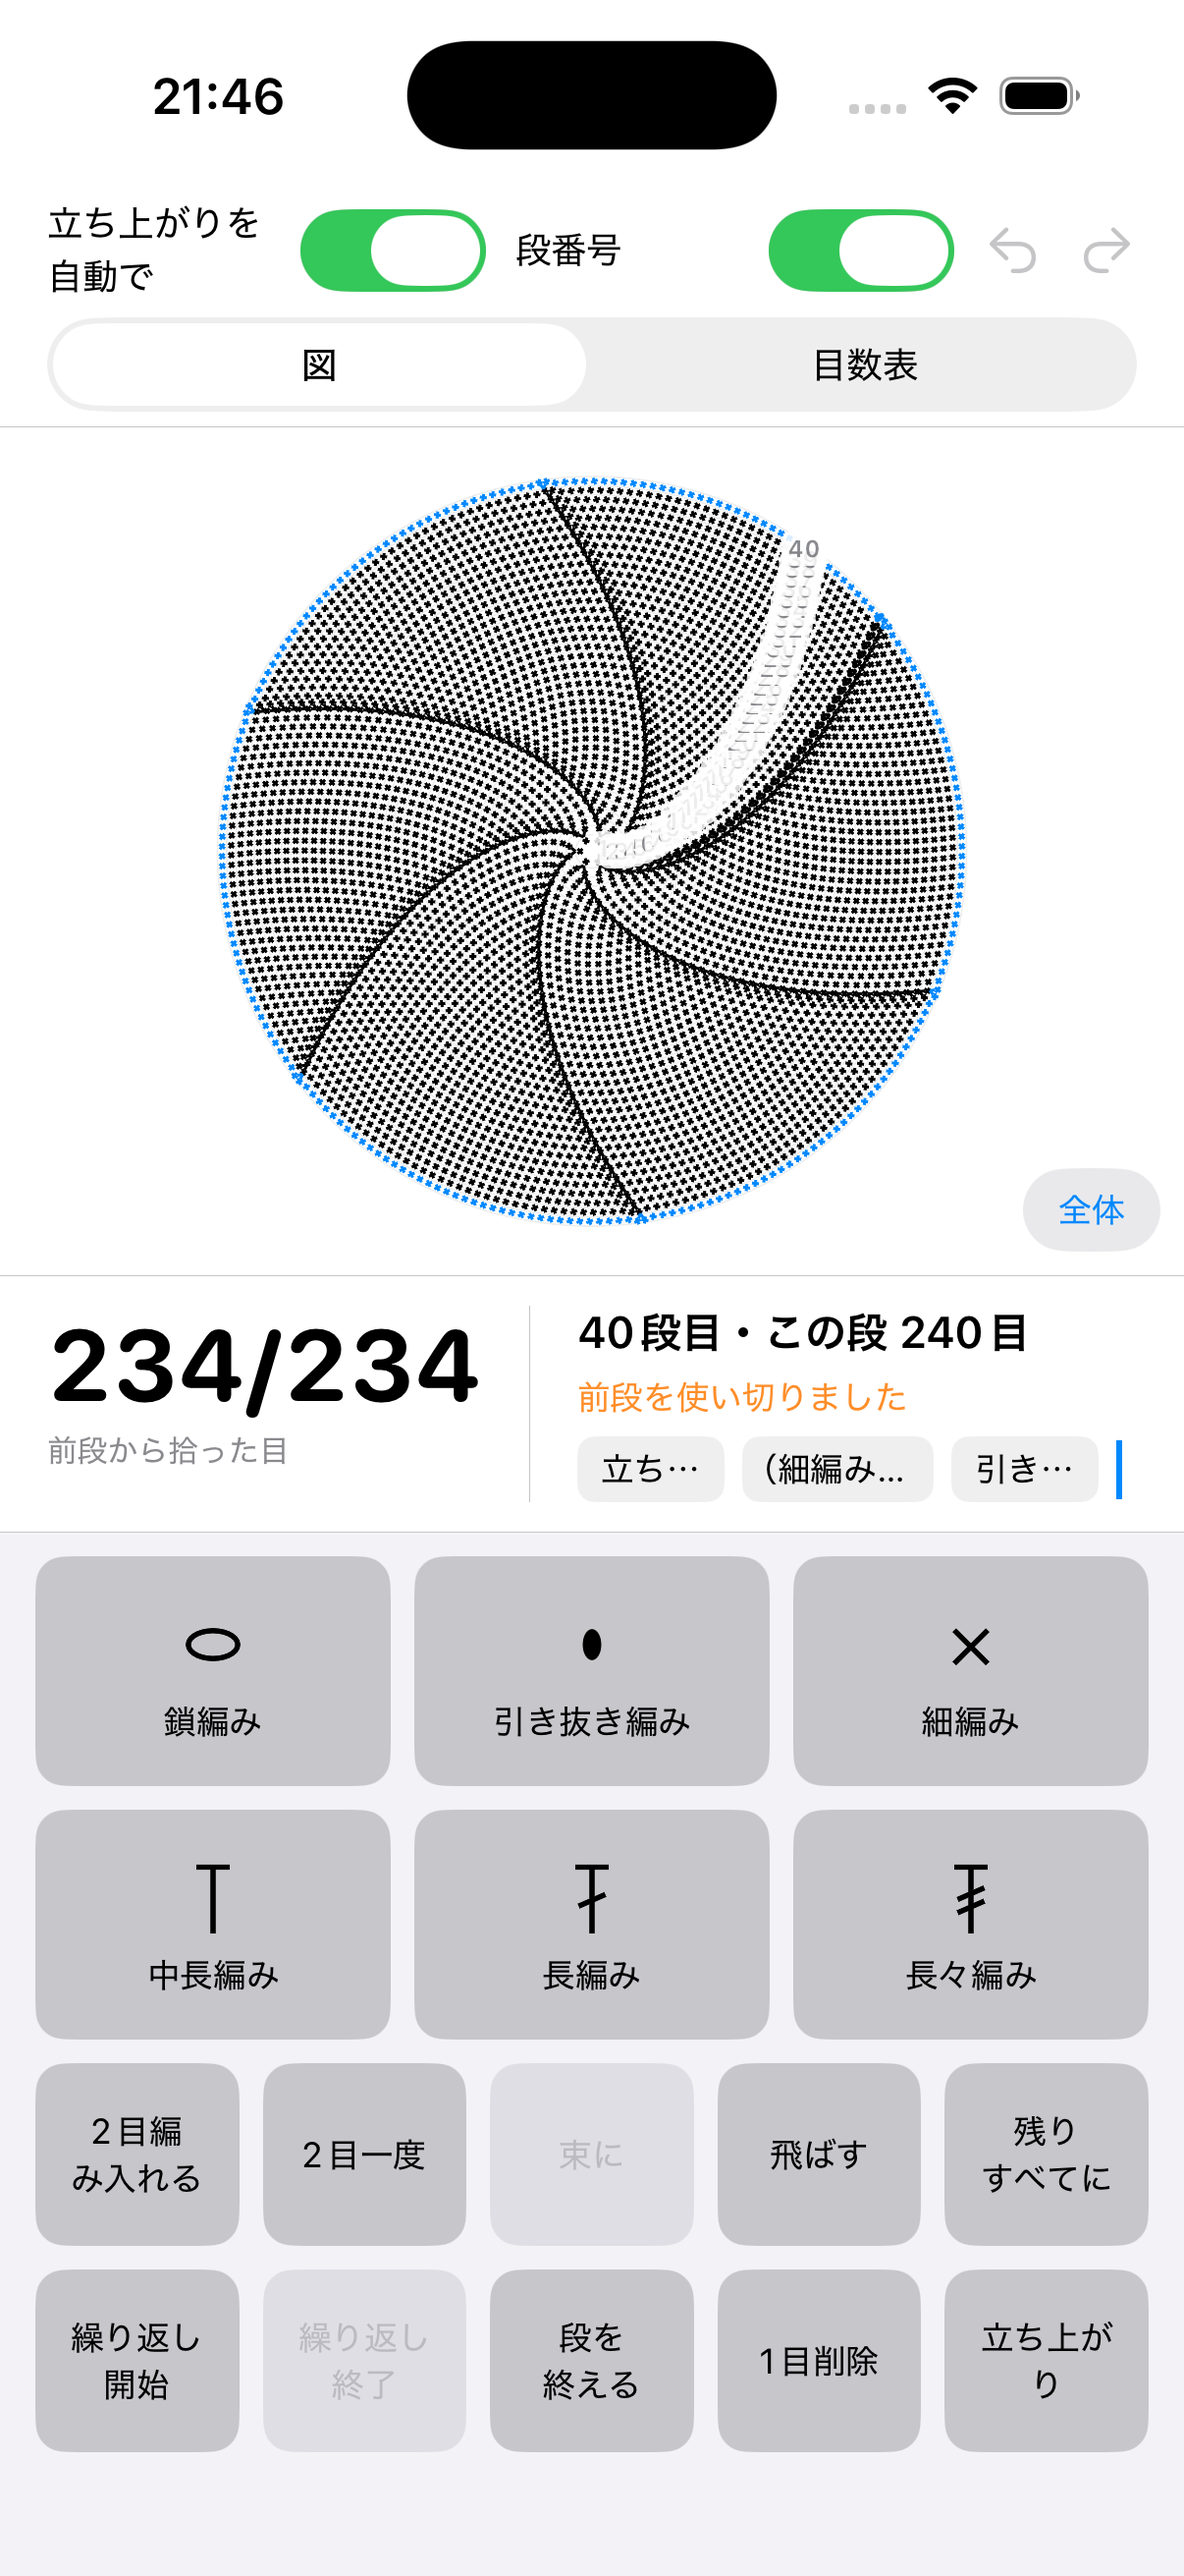
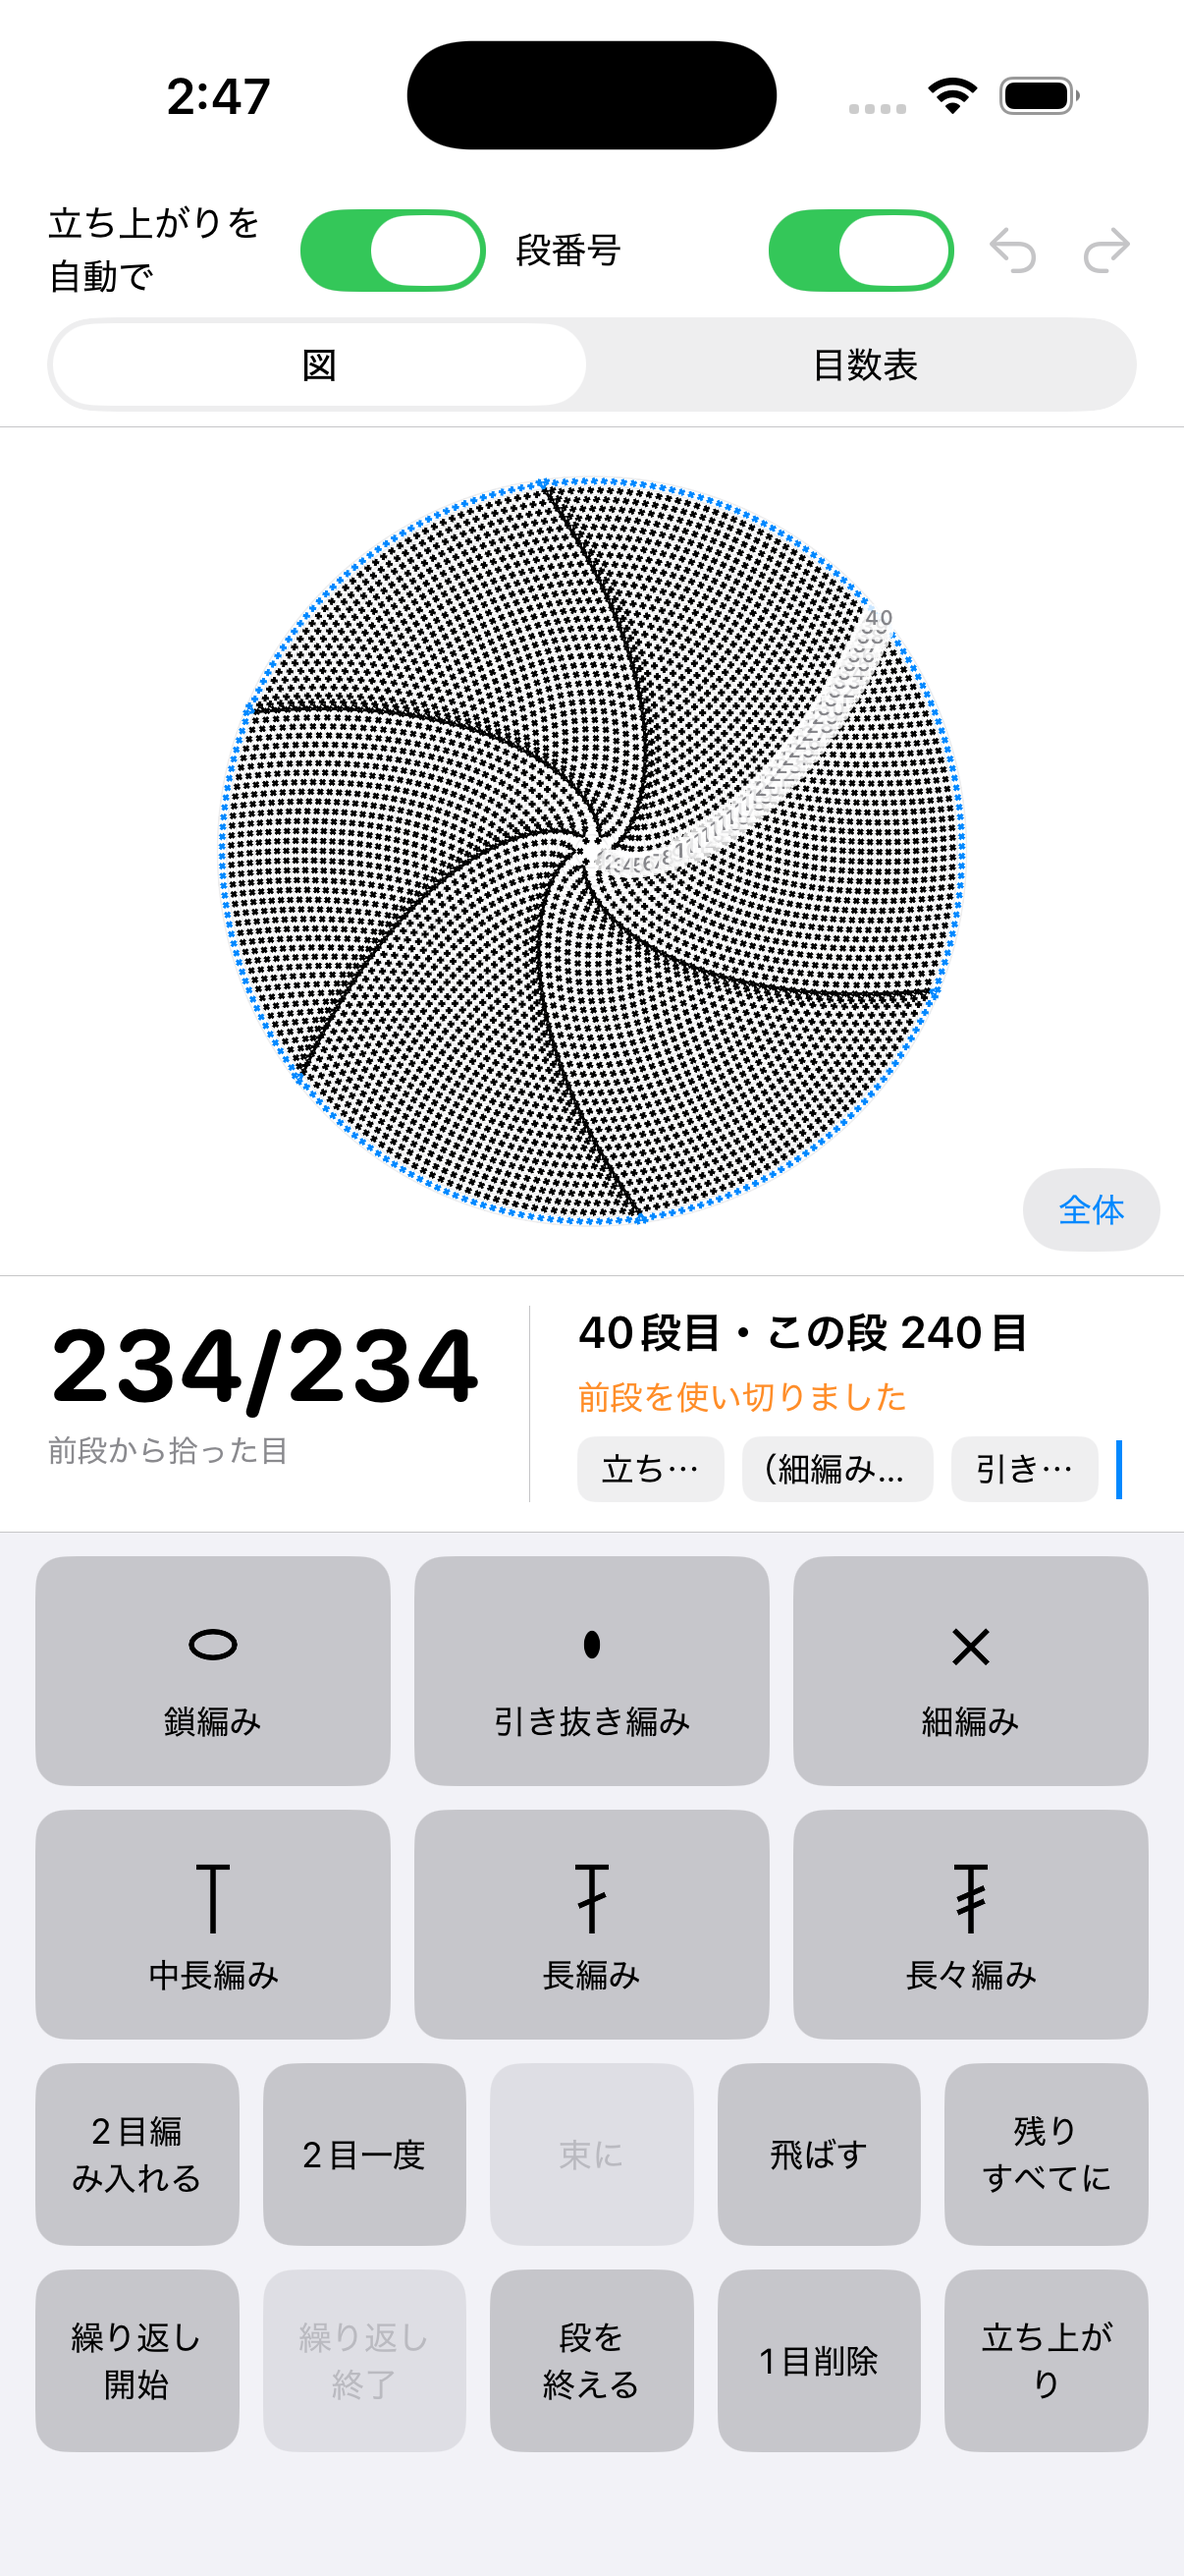
AMIZ-17 図の見た目の調整（立ち上がりと細編みの重なり、段番号の位置）
開発者の指摘「立ち上がりと細編みの記号が被っている」への対応（plan.md フェーズ3-4）。

- CircularLayout：段の始まりの空き（seamAngle）を RowRing に持たせ、数えない立ち上がりは根元寄りの短い楕円、段を閉じる引き抜きは頭の少し内側の点に置く（同じ角度でも高さで分ける）
- ChartView：段番号を段の始まりの空き（楕円と点の間の高さ）に移動。目の上に被らない
- StitchSymbol：鎖の楕円と引き抜きの点を少し小さく
- テスト更新（合計77件）。tech-spec 8-1、スクリーンショットを更新

Changed region(s): [[0.4909, 0.2162, 0.767, 0.3398], [0.1227, 0.0309, 0.2454, 0.0618], [0.1534, 0.6178, 0.1841, 0.6487]]

diff --git a/CrochetCore/Sources/CrochetCore/Layout/CircularLayout.swift b/CrochetCore/Sources/CrochetCore/Layout/CircularLayout.swift
@@ -20,6 +20,10 @@ public enum CircularLayout {
         public var minRowHeight = 1.0
         /// 高さのない目（鎖・引き抜き）を描くときの長さ
         public var lowStitchHeight = 0.5
+        /// 数えない立ち上がり（鎖1目）を描く長さ（根元から。段の高さより短くして隣の目と触れないようにする）
+        public var uncountedTurningChainHeight = 0.5
+        /// 段を閉じる引き抜きを頭からどれだけ内側に置くか（次の段の立ち上がりと離すため）
+        public var closingSlipInset = 0.12
         /// 外接矩形の余白
         public var margin = 1.5
 
@@ -64,6 +68,10 @@ public enum CircularLayout {
                 countedIndexByStitchIndex[item.offset] = countedIndex
             }
 
+            // 段の始まりの空き：最初の目の半歩手前（等間隔ならこの段の1目分、入力中なら前段の1目分の半分）
+            let ownStep = headAngles.count > 1 ? headAngles[1] - headAngles[0] : previousStep
+            let seamAngle = (headAngles.first ?? previousHeadAngles.first ?? 0) - ownStep / 2
+
             for (stitchIndex, stitch) in row.stitches.enumerated() {
                 let laidOut: LaidOutStitch
                 if let countedIndex = countedIndexByStitchIndex[stitchIndex] {
@@ -82,19 +90,25 @@ public enum CircularLayout {
                         center: center, options: options
                     )
                 } else {
-                    // 数えない目：立ち上がり（鎖1目）は段の始めの半歩手前、段を閉じる引き抜きは終わりの半歩後ろ
+                    // 数えない目は段の始まりの空き（seam）に置く。同じ角度でも高さで分ける：
+                    // 立ち上がり（鎖1目）は根元寄りの小さな楕円、段を閉じる引き抜きは頭の近くの点
+                    // （×は中ほどが幅広く根元と頭の近くは細いので、隣の目と触れない）
                     let angle: Double
+                    let radius: Double
                     switch stitch.role {
                     case .turningChain:
-                        angle = (headAngles.first ?? previousHeadAngles.first ?? 0) - previousStep / 2
+                        angle = seamAngle
+                        radius = innerRadius + options.uncountedTurningChainHeight
                     case .closingSlipStitch:
-                        angle = (headAngles.last ?? previousHeadAngles.first ?? 0) + previousStep / 2
+                        angle = seamAngle
+                        radius = outerRadius - options.closingSlipInset
                     case .regular:
                         angle = headAngles.last ?? previousHeadAngles.first ?? 0
+                        radius = outerRadius
                     }
                     laidOut = make(
                         stitch, rowIndex: rowIndex, countedIndex: nil,
-                        headAngle: angle, outerRadius: outerRadius,
+                        headAngle: angle, outerRadius: radius,
                         bases: stitch.role == .closingSlipStitch ? [] : [point(center: center, radius: innerRadius, angle: angle)],
                         center: center, options: options
                     )
@@ -104,7 +118,7 @@ public enum CircularLayout {
 
             rings.append(RowRing(
                 rowIndex: rowIndex, innerRadius: innerRadius, outerRadius: outerRadius,
-                startAngle: headAngles.first ?? previousHeadAngles.first ?? 0
+                startAngle: headAngles.first ?? previousHeadAngles.first ?? 0, seamAngle: seamAngle
             ))
             previousHeadAngles = headAngles
             innerRadius = outerRadius

diff --git a/Amiz/Chart/ChartView.swift b/Amiz/Chart/ChartView.swift
@@ -66,17 +66,17 @@ struct ChartView: View {
             }
         }
 
-        // 段番号（段の始まりの少し手前に置く）
+        // 段番号：段の始まりの空き（立ち上がりの楕円と引き抜きの点の間の高さ）に置く
         if showsRowNumbers {
             for ring in layout.rings {
-                let angle = ring.startAngle + Double.pi / 12
-                let radius = (ring.innerRadius + ring.outerRadius) / 2
+                let angle = ring.seamAngle
+                let radius = ring.innerRadius + 0.62 + max(0, (ring.outerRadius - ring.innerRadius - 1)) / 2
                 let point = transform.toScreen(CGPoint(x: radius * cos(angle), y: -radius * sin(angle)))
-                let text = Text("\(ring.rowIndex + 1)").font(.system(size: max(8, transform.unit * 0.55), weight: .semibold)).foregroundStyle(.secondary)
+                let text = Text("\(ring.rowIndex + 1)").font(.system(size: max(7, transform.unit * 0.36), weight: .semibold)).foregroundStyle(.secondary)
                 let resolved = context.resolve(text)
                 let size = resolved.measure(in: CGSize(width: 100, height: 100))
-                let background = CGRect(x: point.x - size.width / 2 - 2, y: point.y - size.height / 2 - 1, width: size.width + 4, height: size.height + 2)
-                context.fill(Path(roundedRect: background, cornerRadius: 3), with: .color(Color(.systemBackground).opacity(0.85)))
+                let background = CGRect(x: point.x - size.width / 2 - 1, y: point.y - size.height / 2, width: size.width + 2, height: size.height)
+                context.fill(Path(roundedRect: background, cornerRadius: 2), with: .color(Color(.systemBackground).opacity(0.8)))
                 context.draw(resolved, at: point)
             }
         }

diff --git a/CrochetCore/Tests/CrochetCoreTests/Layout/CircularLayoutTests.swift b/CrochetCore/Tests/CrochetCoreTests/Layout/CircularLayoutTests.swift
@@ -149,11 +149,16 @@ struct CircularLayoutTests {
         let turningChain = row1.first!
         #expect(turningChain.countedIndex == nil)
         #expect(sameAngle(turningChain.polarAngle, row1[1].polarAngle - step / 2))
+        // 鎖1目の立ち上がりは根元寄りに短く（段の高さ 1 より低い）
+        #expect(abs(turningChain.polarRadius - (layout.rings[0].innerRadius + 0.5)) < 1e-9)
 
         let closing = row1.last!
         #expect(closing.role == .closingSlipStitch)
         #expect(closing.bases.isEmpty)
         #expect(sameAngle(closing.polarAngle, row1[6].polarAngle + step / 2))
+        // 段を閉じる引き抜きは頭の近く（立ち上がりと同じ角度でも高さで分かれる）
+        #expect(abs(closing.polarRadius - (layout.rings[0].outerRadius - 0.12)) < 1e-9)
+        #expect(sameAngle(layout.rings[0].seamAngle, turningChain.polarAngle))
     }
 
     @Test("検索：StitchRef から、（段, 数える目の位置）から、一番近い位置から")

diff --git a/CrochetCore/Sources/CrochetCore/Layout/ChartLayout.swift b/CrochetCore/Sources/CrochetCore/Layout/ChartLayout.swift
@@ -59,14 +59,17 @@ public struct RowRing: Hashable, Sendable {
     public var innerRadius: Double
     /// 頭側の半径
     public var outerRadius: Double
-    /// 段の始まりの角度（段番号を置く位置の目安）
+    /// 段の最初の目の頭の角度
     public var startAngle: Double
+    /// 段の始まりの空き（最初の目の半歩手前）の角度。立ち上がり・段を閉じる引き抜き・段番号を置く
+    public var seamAngle: Double
 
-    public init(rowIndex: Int, innerRadius: Double, outerRadius: Double, startAngle: Double) {
+    public init(rowIndex: Int, innerRadius: Double, outerRadius: Double, startAngle: Double, seamAngle: Double) {
         self.rowIndex = rowIndex
         self.innerRadius = innerRadius
         self.outerRadius = outerRadius
         self.startAngle = startAngle
+        self.seamAngle = seamAngle
     }
 }
 

diff --git a/Amiz/Chart/StitchSymbol.swift b/Amiz/Chart/StitchSymbol.swift
@@ -16,9 +16,9 @@ enum StitchSymbol {
         /// 記号の横幅（×の腕の長さや T の横棒）
         var armLength: CGFloat { unit * 0.27 }
         /// 鎖の楕円の大きさ
-        var chainSize: CGSize { CGSize(width: unit * 0.8, height: unit * 0.45) }
+        var chainSize: CGSize { CGSize(width: unit * 0.7, height: unit * 0.42) }
         /// 引き抜きの楕円の大きさ
-        var slipSize: CGSize { CGSize(width: unit * 0.5, height: unit * 0.3) }
+        var slipSize: CGSize { CGSize(width: unit * 0.45, height: unit * 0.26) }
     }
 
     /// 細編みの×をどこに置くか（domain-spec 11 の描き分け）

diff --git a/docs/tech-spec.md b/docs/tech-spec.md
@@ -253,7 +253,8 @@
 - 「根元」は拾った前段の目の頭の角度に置く
 - **終わった段**（閉じた段、または最後でない段）：数える目の「頭」を円周に等間隔に並べる（実物の編み図と同じ）。並び全体の回転量は、頭と根元の角度差の平均が 0 になるように決める。増し目は根元を共有して頭が広がる V字、減らし目は逆V字、増減なしの段は放射状になり、拾いすぎ・拾い残しは記号の傾きとして見える
 - **入力中の段**（最後の段で、まだ閉じていない）：頭を拾った前段の目の真上に置く。増し目は前段1目分の幅の中で均等に広げ、鎖は前後の目の間に均等に並べる。編んだところまでが前段の上に並び、円周に散らばらない。段を終えると等間隔に切り替わる
-- 1段目（わの作り目）は等間隔に1周。数えない立ち上がり（鎖1目）は段の始めの半歩手前、段を閉じる引き抜きは段の終わりの半歩後ろ
+- 1段目（わの作り目）は等間隔に1周
+- **段の始まりの空き（seam）**：最初の目の半歩手前の角度。数えない立ち上がり（鎖1目）は根元寄りの小さな楕円、段を閉じる引き抜きは頭の少し内側の点、段番号はその間の高さに置く。同じ角度でも高さで分けるので、×（中ほどが幅広く、根元と頭の近くは細い）や隣の目と触れない
 - 角度は3時の位置が 0 で、画面上で反時計回りに進む
 - 記号の描き分け（ドメイン仕様11）：細編みの×は普通の目では根元と頭の中間、n目編み入れるでは頭側に置いて共有する根元から脚を伸ばし（V字）、n目一度では根元側に置いて頭へ脚を集める（逆V字）。T 系の目は縦線がそのまま脚になる
 
